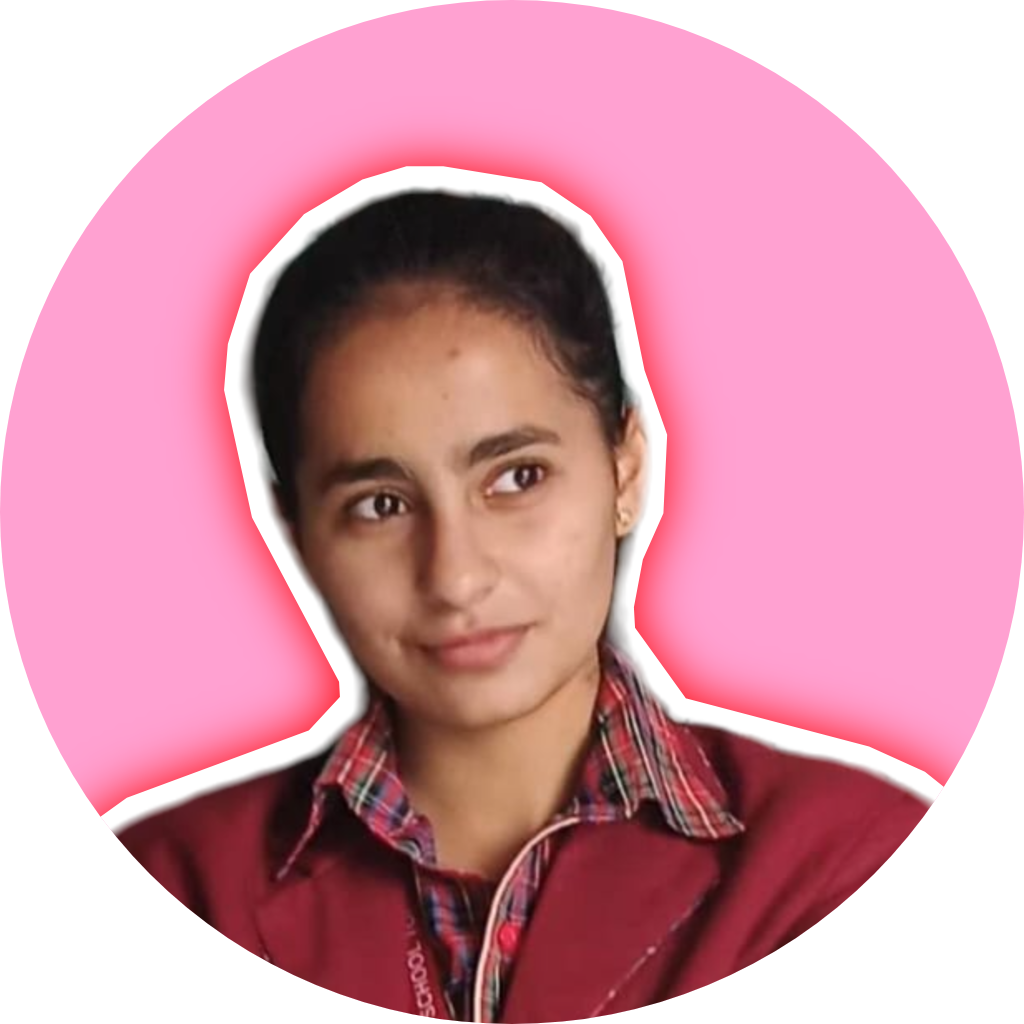
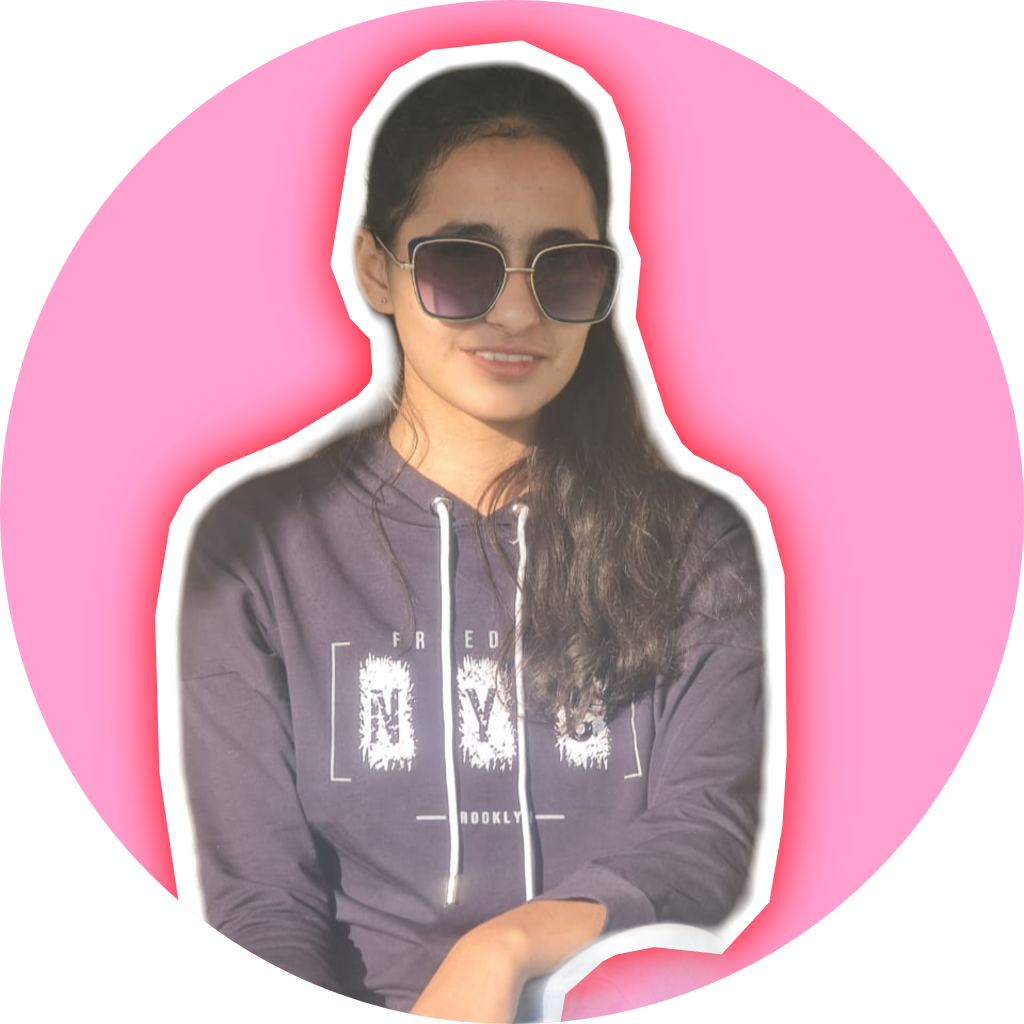
i have added abhinav's image png go ahead and add that

diff --git a/src/app/about/page.tsx b/src/app/about/page.tsx
@@ -22,7 +22,7 @@ const teamMembers: TeamMember[] = [
   { name: 'Aryan', role: 'Founder & Leader', avatar: '/assets/aryan.png', dataAiHint: 'anime man', bio: 'A young and passionate student who wants to learn more about development (including web and AI development).', email: 'watervolt69@gmail.com' },
   { name: 'Gaurav', role: 'Resources Provider', avatar: '/assets/gaurav.png', dataAiHint: 'person face', bio: '(bio)', email: 'gauravxns001@gmail.com' },
   { name: 'Kartik', role: 'Tester', avatar: '/assets/kartik.png', dataAiHint: 'person face', bio: '(bio)', email: 'kartiksharmaa2066@gmail.com' },
-  { name: 'Anubhav', role: 'Tester', avatar: 'https://placehold.co/200x200/53c599/1a6e4a?text=A', dataAiHint: 'person face', bio: '(bio)', email: 'anubhavahluwalia02@gmail.com' },
+  { name: 'Anubhav', role: 'Tester', avatar: '/assets/abhinav.png', dataAiHint: 'person face', bio: '(bio)', email: 'anubhavahluwalia02@gmail.com' },
   { name: 'Dharvi', role: 'Presentation Designer', avatar: '/assets/Dharvi.png', dataAiHint: 'person face', bio: '(bio)', email: 'shivimehta2008@gmail.com' },
   { name: 'Ruhi', role: 'Resources Provider', avatar: '/assets/ruhi.png', dataAiHint: 'person face', bio: '(bio)', email: 'ruhikumari2672@gmail.com' },
 ];
